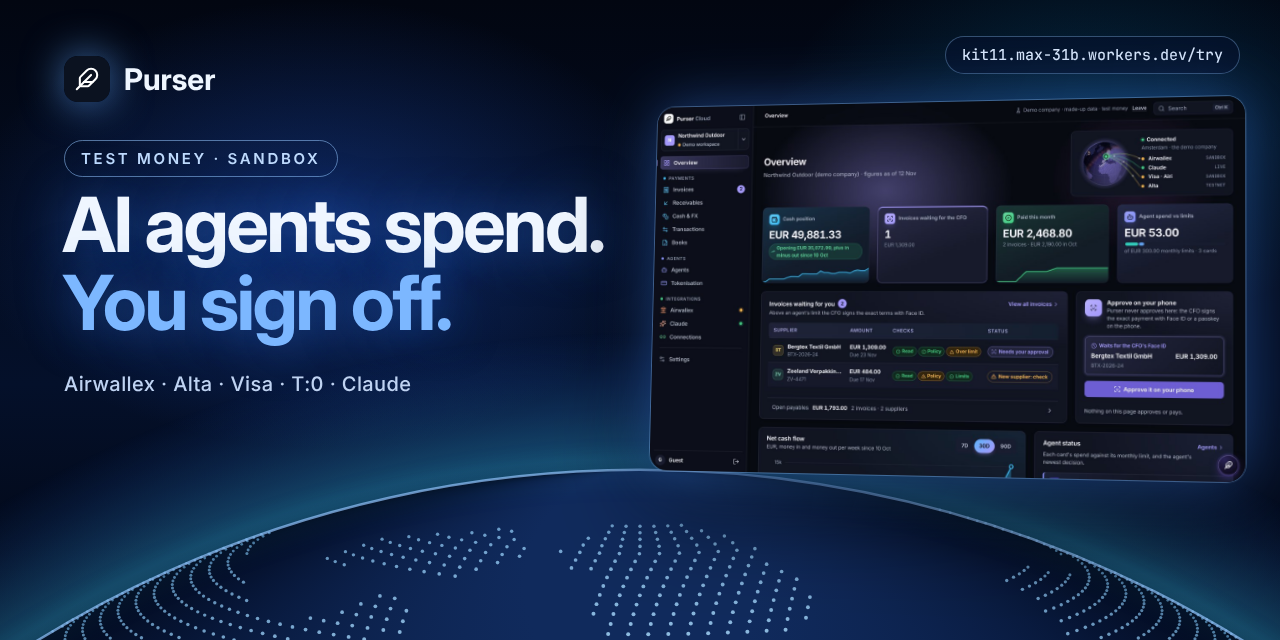
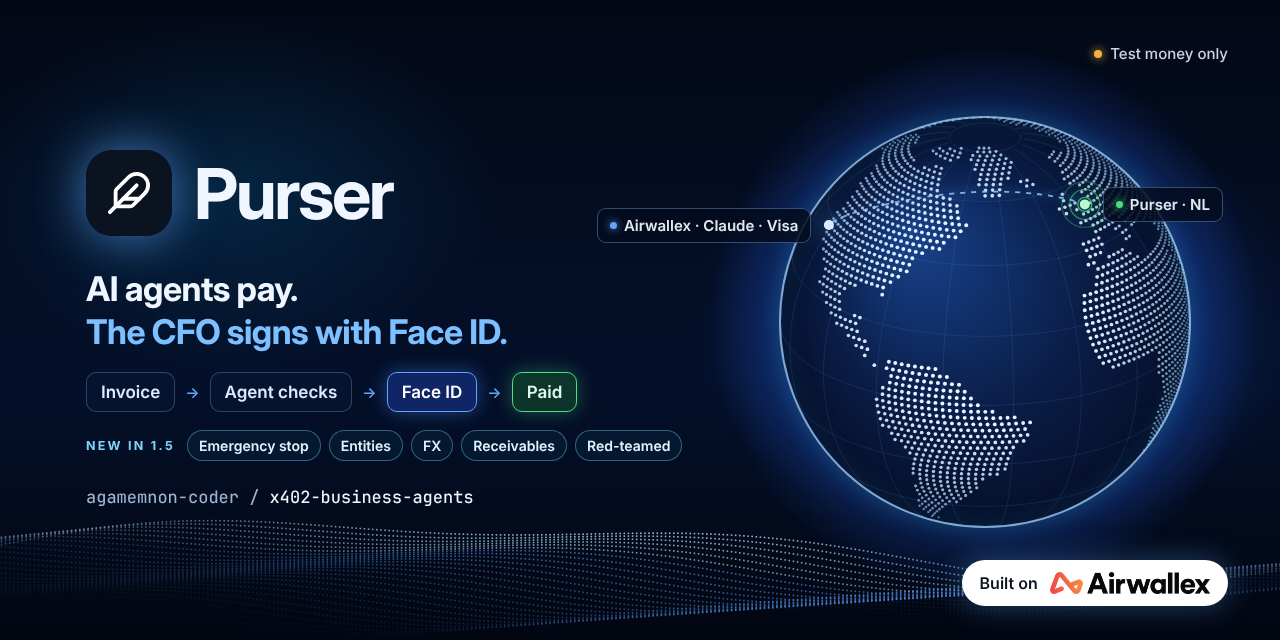
GitHub social preview in the owner's layout, in blue, with what 1.5 added
The mark and two lines, the payment's steps (Invoice, Agent checks, Face ID, Paid), the
Earth from Purser in NL to Airwallex, Claude and Visa in San Francisco, the wave and Built
on Airwallex (its own logo, unaltered), in the promo film's blue; plus a row for 1.5:
emergency stop, entities, FX, receivables, red-teamed. npm run social:github renders it.

Claude-Session: https://claude.ai/code/session_017bq3Bxz45idsGUgFJjRs4G

diff --git a/docs/media/social-preview-github.html b/docs/media/social-preview-github.html
@@ -1,35 +1,66 @@
 <!doctype html>
-<!-- The GitHub social preview (1280x640), 28 Nov: the blue of the promo film. Rendered by scripts/social-github.ts to
-     docs/assets/social-preview-github.png; the repository's owner uploads it under Settings > Social preview.
-     The land is src/ui/globe.ts LAND (inlined by the script); the dashboard is Purser Cloud's demo company, dark. -->
+<!-- The GitHub social preview (1280x640), 28 Nov: the owner's layout (mark, two lines, the payment's steps, the globe
+     from Amsterdam to San Francisco, the wave, Built on Airwallex) in the blue of the promo film, with what 1.5 added.
+     Rendered by scripts/social-github.ts to docs/assets/social-preview-github.png; the owner uploads it under
+     Settings > Social preview. The land is src/ui/globe.ts LAND; the places are the ones src/ui/globe.ts's callers state
+     (cloud/src/signInLook.ts PLACES). The Airwallex logo is src/ui/logos/airwallex-306x42.png, unaltered. -->
 <html><head><meta charset="utf-8"><style>
+*{box-sizing:border-box}
 html,body{margin:0;width:1280px;height:640px;overflow:hidden;background:#020611;font-family:"Inter Display",Inter,sans-serif;color:#eff6ff}
-.bg{position:absolute;inset:0;background:radial-gradient(40% 50% at 25% 35%,rgba(37,99,235,.35),transparent 70%),radial-gradient(35% 45% at 85% 20%,rgba(14,165,233,.22),transparent 70%),linear-gradient(180deg,#020611,#04102a 60%,#020611)}
+.bg{position:absolute;inset:0;background:radial-gradient(34% 50% at 78% 50%,rgba(37,99,235,.42),transparent 70%),radial-gradient(30% 40% at 18% 30%,rgba(14,165,233,.16),transparent 70%),linear-gradient(180deg,#030816,#04102a 60%,#020611)}
 canvas{position:absolute;inset:0}
-.mark{position:absolute;left:64px;top:56px;display:flex;align-items:center;gap:14px;font:650 30px "Inter Display",Inter}
-.mark img{width:46px;height:46px;border-radius:30%;box-shadow:0 0 40px rgba(96,165,250,.7)}
-.chip{position:absolute;left:64px;top:140px;padding:8px 16px;border:1.5px solid rgba(147,197,253,.55);border-radius:999px;font:600 15px Inter;letter-spacing:.18em;color:#bfdbfe}
-h1{position:absolute;left:62px;top:186px;margin:0;font-size:76px;line-height:1.02;letter-spacing:-.035em;font-weight:650;text-shadow:0 0 50px rgba(59,130,246,.5)}
-h1 span{color:#7cb7ff}
-.p{position:absolute;left:64px;top:372px;font:500 20px Inter;color:#bfd3f2;letter-spacing:.02em}
-.url{position:absolute;right:40px;top:36px;padding:8px 16px;border:1px solid rgba(147,197,253,.35);border-radius:999px;font:500 15px "JetBrains Mono",monospace;color:#dbeafe;background:rgba(4,16,42,.7)}
-.shot{position:absolute;left:640px;top:100px;width:600px;border-radius:18px;overflow:hidden;transform:perspective(1600px) rotateY(-10deg) rotateX(4deg);box-shadow:0 0 0 1px rgba(147,197,253,.35),0 0 60px rgba(59,130,246,.45),0 40px 100px rgba(0,0,0,.6)}
-.shot img{display:block;width:100%}
+.brand{position:absolute;left:86px;top:150px;display:flex;align-items:center;gap:22px;font:680 70px "Inter Display",Inter;letter-spacing:-.035em}
+.brand img{width:86px;height:86px;border-radius:30%;box-shadow:0 0 50px rgba(96,165,250,.7)}
+h1{position:absolute;left:86px;top:268px;margin:0;font:650 34px/1.25 "Inter Display",Inter;letter-spacing:-.015em}
+h1 span{color:#7cc0ff}
+.steps{position:absolute;left:86px;top:372px;display:flex;align-items:center;gap:10px;font:600 17px Inter}
+.st{padding:9px 14px;border-radius:10px;border:1px solid rgba(147,197,253,.28);background:rgba(8,20,48,.8);color:#dbeafe}
+.st.f{border-color:#60a5fa;background:rgba(30,64,175,.45);color:#fff;box-shadow:0 0 18px rgba(59,130,246,.45)}
+.st.p{border-color:#4ade80;background:rgba(20,83,45,.55);color:#dcfce7;box-shadow:0 0 18px rgba(74,222,128,.35)}
+.ar{color:#60a5fa;font-size:15px}
+.new{position:absolute;left:86px;top:430px;display:flex;align-items:center;gap:8px;font:600 14px Inter}
+.new b{font:700 12.5px Inter;letter-spacing:.18em;color:#7dd3fc;margin-right:4px}
+.new span{padding:6px 11px;border-radius:999px;border:1px solid rgba(125,211,252,.4);background:rgba(4,30,52,.7);color:#e0f2fe}
+.repo{position:absolute;left:86px;top:486px;font:500 17px "JetBrains Mono",monospace;color:#9fb3d1}
+.repo i{font-style:normal;color:#eff6ff}
+.tm{position:absolute;right:52px;top:44px;font:500 15px Inter;color:#cbd5e1;display:flex;align-items:center;gap:8px}
+.tm::before{content:"";width:8px;height:8px;border-radius:50%;background:#f5b041;box-shadow:0 0 10px #f5b041}
+.lbl{position:absolute;padding:7px 12px;border-radius:9px;border:1px solid rgba(147,197,253,.35);background:rgba(4,12,30,.85);font:600 15px Inter;color:#e2e8f0;white-space:nowrap;display:flex;align-items:center;gap:7px}
+.lbl i{width:7px;height:7px;border-radius:50%}
+.built{position:absolute;right:52px;bottom:34px;display:flex;align-items:center;gap:12px;padding:12px 18px;border-radius:999px;background:#fff;box-shadow:0 0 30px rgba(96,165,250,.35);font:600 16px Inter;color:#0b1220}
+.built img{height:22px}
 </style></head><body><div class="bg"></div><canvas width="1280" height="640"></canvas>
-<div class="mark"><img src="../assets/brand/purser-mark.svg">Purser</div><div class="chip">TEST MONEY · SANDBOX</div>
-<h1>AI agents spend.<br><span>You sign off.</span></h1><div class="p">Airwallex · Alta · Visa · T:0 · Claude</div>
-<div class="url">kit11.max-31b.workers.dev/try</div><div class="shot"><img src="github-preview-cloud.jpg"></div>
+<div class="tm">Test money only</div>
+<div class="brand"><img src="../assets/brand/purser-mark.svg">Purser</div>
+<h1>AI agents pay.<br><span>The CFO signs with Face ID.</span></h1>
+<div class="steps"><span class="st">Invoice</span><span class="ar">→</span><span class="st">Agent checks</span><span class="ar">→</span><span class="st f">Face ID</span><span class="ar">→</span><span class="st p">Paid</span></div>
+<div class="new"><b>NEW IN 1.5</b><span>Emergency stop</span><span>Entities</span><span>FX</span><span>Receivables</span><span>Red-teamed</span></div>
+<div class="repo">agamemnon-coder / <i>x402-business-agents</i></div>
+<div class="lbl" id="sfo"><i style="background:#60a5fa;box-shadow:0 0 8px #60a5fa"></i>Airwallex · Claude · Visa</div>
+<div class="lbl" id="ams"><i style="background:#4ade80;box-shadow:0 0 8px #4ade80"></i>Purser · NL</div>
+<div class="built">Built on <img src="../../src/ui/logos/airwallex-306x42.png"></div>
 <script>
 const LAND=[[[-168, 66], [-162, 70], [-156, 71], [-140, 70], [-128, 70], [-115, 68], [-100, 68], [-95, 72], [-85, 70], [-80, 66], [-75, 62], [-65, 60], [-60, 55], [-56, 52], [-60, 47], [-66, 44], [-70, 42], [-74, 40], [-76, 35], [-81, 31], [-80, 25], [-82, 27], [-84, 30], [-90, 29], [-97, 27], [-97, 22], [-95, 19], [-90, 21], [-87, 21], [-88, 16], [-84, 15], [-83, 10], [-79, 9], [-80, 7], [-85, 10], [-92, 14], [-100, 17], [-105, 20], [-110, 24], [-112, 29], [-115, 31], [-117, 32], [-120, 34], [-124, 40], [-124, 47], [-127, 51], [-133, 56], [-140, 60], [-150, 60], [-158, 57], [-165, 60]], [[-120, 72], [-100, 74], [-85, 74], [-75, 78], [-90, 81], [-110, 78], [-122, 76]], [[-73, 78], [-60, 82], [-35, 83], [-20, 80], [-20, 72], [-30, 68], [-42, 60], [-50, 62], [-55, 68], [-60, 75]], [[-80, 9], [-75, 11], [-70, 12], [-62, 10], [-55, 6], [-50, 2], [-48, -1], [-40, -3], [-35, -6], [-35, -10], [-39, -15], [-40, -22], [-48, -26], [-53, -34], [-58, -38], [-62, -40], [-65, -45], [-68, -50], [-69, -55], [-73, -53], [-75, -46], [-73, -37], [-71, -30], [-71, -18], [-76, -14], [-81, -6], [-80, -2], [-78, 2], [-77, 7]], [[-10, 36], [-9, 43], [-2, 44], [-1, 46], [-5, 48], [2, 51], [5, 53], [8, 54], [8, 57], [10, 58], [5, 59], [5, 62], [12, 66], [18, 70], [26, 71], [31, 70], [40, 67], [44, 68], [50, 68], [60, 69], [60, 55], [50, 47], [40, 46], [37, 45], [30, 45], [28, 41], [26, 40], [23, 38], [20, 40], [19, 42], [13, 45], [16, 41], [16, 38], [12, 38], [10, 44], [7, 44], [3, 43], [0, 39], [-2, 37], [-6, 36]], [[-6, 50], [1, 51], [2, 53], [-1, 55], [-2, 58], [-5, 59], [-6, 56], [-5, 54], [-3, 52]], [[-10, 52], [-6, 52], [-6, 55], [-8, 55], [-10, 54]], [[-24, 64], [-14, 64], [-14, 66], [-22, 67]], [[-17, 21], [-16, 28], [-10, 30], [-6, 36], [0, 36], [10, 37], [11, 33], [20, 31], [25, 32], [32, 31], [34, 28], [38, 22], [43, 12], [51, 12], [50, 8], [45, 2], [40, -3], [40, -10], [35, -17], [35, -24], [32, -28], [27, -34], [20, -35], [18, -32], [15, -26], [12, -18], [13, -10], [12, -5], [9, -1], [9, 4], [5, 5], [0, 5], [-5, 5], [-8, 4], [-13, 8], [-17, 13]], [[44, -13], [50, -15], [50, -17], [47, -25], [44, -24], [43, -18]], [[26, 40], [28, 41], [30, 45], [37, 45], [40, 46], [50, 47], [60, 55], [60, 69], [70, 73], [80, 73], [90, 76], [100, 78], [110, 77], [120, 73], [130, 71], [140, 72], [150, 71], [160, 70], [170, 70], [180, 69], [180, 65], [175, 62], [165, 60], [160, 55], [157, 51], [155, 57], [150, 59], [142, 59], [136, 55], [140, 48], [135, 43], [130, 42], [128, 39], [126, 35], [126, 38], [122, 40], [121, 37], [119, 35], [122, 31], [120, 26], [117, 23], [110, 21], [108, 18], [106, 10], [104, 9], [101, 13], [100, 7], [104, 1], [101, 3], [98, 8], [98, 16], [94, 17], [92, 22], [88, 22], [85, 20], [80, 15], [80, 10], [77, 8], [73, 17], [72, 21], [67, 24], [62, 25], [57, 25], [56, 27], [52, 28], [48, 30], [50, 26], [52, 24], [56, 24], [59, 22], [55, 17], [52, 16], [45, 13], [43, 15], [40, 20], [36, 26], [34, 28], [35, 32], [36, 36], [30, 37]], [[130, 31], [132, 34], [135, 34], [140, 35], [141, 38], [142, 42], [145, 44], [141, 45], [140, 41], [136, 37], [133, 35], [130, 33]], [[95, 5], [98, 4], [104, -2], [106, -6], [102, -4], [96, 2]], [[109, 2], [111, -3], [116, -4], [118, 1], [117, 7], [113, 4]], [[105, -6], [114, -7], [114, -8], [106, -7]], [[131, -1], [138, -2], [146, -6], [150, -10], [142, -9], [138, -8], [132, -4]], [[80, 6], [82, 7], [81, 10], [79, 9]], [[120, 18], [122, 18], [124, 13], [126, 7], [122, 7], [121, 13]], [[114, -22], [114, -26], [115, -34], [118, -35], [124, -33], [129, -32], [134, -32], [138, -35], [140, -38], [146, -39], [150, -37], [153, -32], [153, -25], [150, -22], [146, -19], [143, -11], [141, -13], [141, -17], [137, -15], [136, -12], [132, -11], [129, -15], [125, -14], [122, -17], [118, -20]], [[172, -34], [178, -38], [175, -41], [172, -44], [167, -46], [170, -43], [174, -39]], [[-180, -72], [-120, -73], [-60, -64], [-40, -78], [0, -70], [60, -67], [120, -66], [180, -72], [180, -90], [-180, -90]]];
 const W=1280,H=640,g=document.querySelector('canvas').getContext('2d'),RAD=Math.PI/180;
 function inPoly(x,y,p){let c=false;for(let i=0,j=p.length-1;i<p.length;j=i++){const[xi,yi]=p[i],[xj,yj]=p[j];if((yi>y)!==(yj>y)&&x<(xj-xi)*(y-yi)/(yj-yi)+xi)c=!c}return c}
-const R=1150,cx=640,cy=470+R,lon0=-50,lat0=10,sl0=Math.sin(lat0*RAD),cl0=Math.cos(lat0*RAD);
+// the wave: rows of dots along a slow swell, the way the site's hero does it
+for(let row=0;row<26;row++){for(let i=0;i<=320;i++){const u=i/320,x=-20+u*1320;const y=548+row*2.6-26*Math.sin(u*5.2+row*.12)*Math.exp(-row*.03)-10*Math.sin(u*13+row*.3);const a=(1-row/26)*(.25+.55*Math.pow(Math.sin(u*Math.PI),1.5));g.fillStyle=`rgba(${row<6?186:96},${row<6?230:165},255,${a})`;g.fillRect(x,y,1.6,1.6)}}
+// the Earth
+const R=205,cx=985,cy=322,lon0=-48,lat0=24,sl0=Math.sin(lat0*RAD),cl0=Math.cos(lat0*RAD);
 const proj=(lon,lat,alt=0)=>{const l=(lon-lon0)*RAD,p=lat*RAD,r=R*(1+alt),cc=sl0*Math.sin(p)+cl0*Math.cos(p)*Math.cos(l);return[cx+r*Math.cos(p)*Math.sin(l),cy-r*(cl0*Math.sin(p)-sl0*Math.cos(p)*Math.cos(l)),cc]};
-let gr=g.createRadialGradient(cx,cy,R*.92,cx,cy,R*1.12);gr.addColorStop(0,'rgba(56,189,248,0)');gr.addColorStop(.45,'rgba(56,189,248,.35)');gr.addColorStop(1,'rgba(37,99,235,0)');g.fillStyle=gr;g.beginPath();g.arc(cx,cy,R*1.12,0,7);g.fill();
-gr=g.createRadialGradient(cx,cy-R*.9,R*.1,cx,cy,R);gr.addColorStop(0,'#102a5c');gr.addColorStop(.6,'#061433');gr.addColorStop(1,'#030a1c');g.fillStyle=gr;g.beginPath();g.arc(cx,cy,R,0,7);g.fill();
-for(let lat=-80;lat<=84;lat+=1.0){const st=1.0/Math.max(.2,Math.cos(lat*RAD));for(let lon=-180;lon<180;lon+=st){if(!LAND.some(p=>inPoly(lon,lat,p)))continue;const[x,y,c]=proj(lon,lat);if(c<=0||y>H)continue;g.fillStyle=`rgba(${Math.round(125+90*c)},${Math.round(200+40*c)},255,${Math.min(1,.5+.6*c)})`;g.beginPath();g.arc(x,y,1.3+1.4*c,0,7);g.fill()}}
-g.strokeStyle='rgba(147,197,253,.7)';g.lineWidth=2.5;g.shadowColor='rgba(56,189,248,.9)';g.shadowBlur=26;g.beginPath();g.arc(cx,cy,R,Math.PI*1.05,Math.PI*1.95);g.stroke();g.shadowBlur=0;
-const A=[4.9,52.37],S=[-122.42,37.77];[[.1,'rgba(74,222,128,.8)'],[.17,'rgba(56,189,248,.65)']].forEach(([lift,col])=>{g.strokeStyle=col;g.lineWidth=2;g.shadowColor=col;g.shadowBlur=12;g.beginPath();for(let i=0;i<=80;i++){const f=i/80,[x,y]=proj(A[0]+(S[0]-A[0])*f,A[1]+(S[1]-A[1])*f+Math.sin(f*Math.PI)*6,Math.sin(f*Math.PI)*lift);i?g.lineTo(x,y):g.moveTo(x,y)}g.stroke();g.shadowBlur=0});
-const a=proj(...A);g.fillStyle='#86efac';g.shadowColor='#22c55e';g.shadowBlur=20;g.beginPath();g.arc(a[0],a[1],6,0,7);g.fill();
+let gr=g.createRadialGradient(cx,cy,R*.9,cx,cy,R*1.35);gr.addColorStop(0,'rgba(56,189,248,.35)');gr.addColorStop(.35,'rgba(37,99,235,.22)');gr.addColorStop(1,'rgba(37,99,235,0)');g.fillStyle=gr;g.beginPath();g.arc(cx,cy,R*1.35,0,7);g.fill();
+gr=g.createRadialGradient(cx-R*.35,cy-R*.4,R*.05,cx,cy,R);gr.addColorStop(0,'#173f86');gr.addColorStop(.6,'#0a1d47');gr.addColorStop(1,'#050f28');g.fillStyle=gr;g.beginPath();g.arc(cx,cy,R,0,7);g.fill();
+g.strokeStyle='rgba(96,165,250,.13)';g.lineWidth=1;for(let lat=-60;lat<=80;lat+=20){g.beginPath();let on=0;for(let lon=-180;lon<=180;lon+=3){const[x,y,c]=proj(lon,lat);if(c>0){on?g.lineTo(x,y):g.moveTo(x,y);on=1}else on=0}g.stroke()}
+for(let lon=-180;lon<180;lon+=20){g.beginPath();let on=0;for(let lat=-80;lat<=80;lat+=3){const[x,y,c]=proj(lon,lat);if(c>0){on?g.lineTo(x,y):g.moveTo(x,y);on=1}else on=0}g.stroke()}
+for(let lat=-80;lat<=84;lat+=2.0){const st=2.0/Math.max(.2,Math.cos(lat*RAD));for(let lon=-180;lon<180;lon+=st){if(!LAND.some(p=>inPoly(lon,lat,p)))continue;const[x,y,c]=proj(lon,lat);if(c<=.02)continue;g.fillStyle=`rgba(${Math.round(150+90*c)},${Math.round(205+45*c)},255,${Math.min(1,.35+.75*c)})`;g.beginPath();g.arc(x,y,.9+1.2*c,0,7);g.fill()}}
+g.strokeStyle='rgba(165,210,255,.75)';g.lineWidth=2;g.shadowColor='rgba(56,189,248,.9)';g.shadowBlur=22;g.beginPath();g.arc(cx,cy,R,0,7);g.stroke();g.shadowBlur=0;
+const A=[4.9,52.37],S=[-122.42,37.77];
+g.setLineDash([5,6]);g.strokeStyle='rgba(147,197,253,.85)';g.lineWidth=1.8;g.shadowColor='rgba(96,165,250,.9)';g.shadowBlur=10;g.beginPath();
+for(let i=0;i<=100;i++){const f=i/100,[x,y]=proj(A[0]+(S[0]-A[0])*f,A[1]+(S[1]-A[1])*f+Math.sin(f*Math.PI)*8,Math.sin(f*Math.PI)*.28);i?g.lineTo(x,y):g.moveTo(x,y)}g.stroke();g.setLineDash([]);g.shadowBlur=0;
+const a=proj(...A),s=proj(...S);
+for(let r=0;r<3;r++){g.strokeStyle=`rgba(74,222,128,${.75-r*.22})`;g.lineWidth=1.4;g.beginPath();g.arc(a[0],a[1],7+r*8,0,7);g.stroke()}
+g.fillStyle='#bbf7d0';g.shadowColor='#22c55e';g.shadowBlur=20;g.beginPath();g.arc(a[0],a[1],5,0,7);g.fill();g.fillStyle='#dbeafe';g.shadowColor='#60a5fa';g.beginPath();g.arc(s[0],s[1],5,0,7);g.fill();g.shadowBlur=0;
+const am=document.getElementById('ams'),sf=document.getElementById('sfo');
+am.style.left=(a[0]+18)+'px';am.style.top=(a[1]-17)+'px';sf.style.left=(s[0]-18-sf.offsetWidth)+'px';sf.style.top=(s[1]-17)+'px';
 window.done=true;
 </script></body></html>
